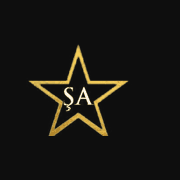
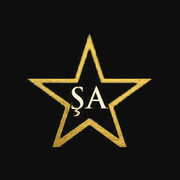
Add files via upload

Changed region(s): [[0.1389, 0.1944, 0.8611, 0.8333]]

diff --git a/index.html b/index.html
@@ -6,8 +6,8 @@
 <title>Şölen Akyıldız Beauty Academy · Online Randevu</title>
 <meta name="theme-color" content="#0d0d0d">
 <link rel="manifest" href="manifest.json">
-<link rel="apple-touch-icon" href="apple-touch-icon.png">
-<link rel="icon" href="icon-192.png">
+<link rel="apple-touch-icon" href="apple-touch-icon.png?v=2">
+<link rel="icon" href="icon-192.png?v=2">
 <meta name="apple-mobile-web-app-capable" content="yes">
 <meta name="mobile-web-app-capable" content="yes">
 <meta name="apple-mobile-web-app-status-bar-style" content="black-translucent">
@@ -163,6 +163,7 @@ footer{text-align:center;color:var(--muted);font-size:13px;padding:6px 16px 34px
 footer a{color:var(--green-2);text-decoration:none;font-weight:500}
 
 @media (prefers-reduced-motion:reduce){*,*::before,*::after{animation:none!important;transition:none!important}}
+.desc{display:block;font-size:12.5px;line-height:1.4;color:#7a7264;margin:3px 0 4px;font-weight:400}
 </style>
 </head>
 <body>
@@ -198,24 +199,24 @@ const CONFIG = {
   hours: {0:["10:00","18:00"],1:null,2:null,3:["09:00","19:00"],4:["09:00","19:00"],5:["09:00","19:00"],6:["09:00","19:00"]},
   staff: ["Şölen","Ceren","Sude","Ayaz","Gizem","Selin","Nazlı","Sudenaz","İlkbal","Yasemin","Eda"],
   services: [
-    {cat:"Cilt", name:"Hydrafacial", min:90},
-    {cat:"Cilt", name:"Mikronee", min:30},
-    {cat:"Cilt", name:"İğnesiz Mezoterapi", min:30},
-    {cat:"Cilt", name:"Pop-Up", min:30},
-    {cat:"Lazer", name:"Lazer Epilasyon", min:30},
-    {cat:"Lazer", name:"Lazer Epilasyon – Tüm Vücut", min:90},
-    {cat:"Lazer", name:"Tepeden Tırnağa Epilasyon", min:120},
-    {cat:"Lazer", name:"Deneme Atışı", min:15},
-    {cat:"Kaş & Kirpik", name:"Kirpik Lifting", min:20},
-    {cat:"Kaş & Kirpik", name:"Kaş Alma", min:20},
-    {cat:"Kaş & Kirpik", name:"Altın Oran Kaş Tasarımı", min:30},
-    {cat:"Kaş & Kirpik", name:"Kaş Vitamini", min:10},
-    {cat:"Kaş & Kirpik", name:"Kaş Laminasyonu", min:10},
-    {cat:"Vücut & Masaj", name:"Masaj", min:40},
-    {cat:"Vücut & Masaj", name:"Bölgesel İncelme", min:30},
-    {cat:"Saç", name:"Saç Vitamini", min:30},
-    {cat:"Danışma", name:"Görüşme", min:30},
-    {cat:"Danışma", name:"Demo", min:20}
+    {cat:"Cilt", name:"Hydrafacial", min:90, desc:"Derin temizlik, peeling ve nem bakımını bir arada yapan cilt bakımı."},
+    {cat:"Cilt", name:"Mikronee", min:30, desc:"Mikro iğne ile cilt yenileme; ton eşitsizliği ve gözenek görünümü için."},
+    {cat:"Cilt", name:"İğnesiz Mezoterapi", min:30, desc:"Vitamin ve serumların iğnesiz yöntemle cilde uygulanması."},
+    {cat:"Cilt", name:"Pop-Up", min:30, desc:"Cilde hızlı canlılık ve sıkılık görünümü kazandıran bakım."},
+    {cat:"Lazer", name:"Lazer Epilasyon", min:30, desc:"Seçtiğiniz bölgeye lazer ile kalıcı tüy azaltma."},
+    {cat:"Lazer", name:"Lazer Epilasyon – Tüm Vücut", min:90, desc:"Tüm vücut bölgelerine tek seansta lazer epilasyon."},
+    {cat:"Lazer", name:"Tepeden Tırnağa Epilasyon", min:120, desc:"Yüz dahil tüm vücuda kapsamlı lazer epilasyon seansı."},
+    {cat:"Lazer", name:"Deneme Atışı", min:15, desc:"Lazerden önce cildinizin uyumunu görmek için kısa deneme."},
+    {cat:"Kaş & Kirpik", name:"Kirpik Lifting", min:20, desc:"Kendi kirpiklerinize kalıcı kıvrım ve dolgun görünüm."},
+    {cat:"Kaş & Kirpik", name:"Kaş Alma", min:20, desc:"Yüz hatlarınıza uygun temiz ve düzgün kaş şekillendirme."},
+    {cat:"Kaş & Kirpik", name:"Altın Oran Kaş Tasarımı", min:30, desc:"Yüzünüze ölçülerek altın orana göre kaş tasarımı."},
+    {cat:"Kaş & Kirpik", name:"Kaş Vitamini", min:10, desc:"Kaşları besleyen ve güçlendiren vitamin bakımı."},
+    {cat:"Kaş & Kirpik", name:"Kaş Laminasyonu", min:10, desc:"Kaş tellerini düzenleyip daha dolgun gösteren işlem."},
+    {cat:"Vücut & Masaj", name:"Masaj", min:40, desc:"Kasları gevşeten, rahatlatıcı vücut masajı."},
+    {cat:"Vücut & Masaj", name:"Bölgesel İncelme", min:30, desc:"Belirli bölgelere yönelik incelme ve sıkılaşma uygulaması."},
+    {cat:"Saç", name:"Saç Vitamini", min:30, desc:"Saç derisini besleyen, saça canlılık veren vitamin bakımı."},
+    {cat:"Danışma", name:"Görüşme", min:30, desc:"İhtiyacınıza uygun işlemi birlikte belirlediğimiz ön görüşme."},
+    {cat:"Danışma", name:"Demo", min:20, desc:"Uygulamayı tanımanız için kısa tanıtım seansı."}
   ]
 };
 /* ============================ */
@@ -288,7 +289,7 @@ function render(scroll){
     v.innerHTML = `<div class="${cls}"><h2>Size nasıl bir bakım yapalım?</h2><p class="hint">Önce kategoriyi, sonra işlemi seçin.</p>
       <div class="cats">${cats.map(c=>`<button class="cat ${c===S.cat?"sel":""}" data-c="${c}">${ICONS[c]||""}${c}</button>`).join("")}</div>
       <div class="list two">${items.map((x,k)=>`<button class="opt ${S.service===x.s?"sel":""}" style="--i:${k}" data-i="${x.i}">
-        <span class="ico">${ICONS[x.s.cat]||""}</span><span class="t"><span class="name">${x.s.name}</span><span class="dur">⏱ ${durTxt(x.s.min)}</span></span><span class="check">${CHECK}</span></button>`).join("")}</div></div>`;
+        <span class="ico">${ICONS[x.s.cat]||""}</span><span class="t"><span class="name">${x.s.name}</span>${x.s.desc?`<span class="desc">${x.s.desc}</span>`:""}<span class="dur">⏱ ${durTxt(x.s.min)}</span></span><span class="check">${CHECK}</span></button>`).join("")}</div></div>`;
     v.querySelectorAll("[data-c]").forEach(b=>b.onclick=()=>{S.cat=b.dataset.c; S.dir=1; render(); });
     v.querySelectorAll("[data-i]").forEach(b=>b.onclick=()=>{S.service=CONFIG.services[b.dataset.i]; S.time=null;
       v.querySelectorAll(".opt").forEach(o=>o.classList.toggle("sel",o===b)); $("#next").disabled=false;

diff --git a/sw.js b/sw.js
@@ -1,5 +1,5 @@
 // Şölen Randevu – çevrimdışı açılış için basit önbellek (randevu verileri önbelleğe alınmaz)
-const CACHE = "solen-v1";
+const CACHE = "solen-v2";
 const FILES = ["./", "./index.html", "./yonetim.html", "./logo.png", "./icon-192.png", "./icon-512.png", "./apple-touch-icon.png", "./manifest.json", "./yonetim.webmanifest"];
 self.addEventListener("install", e => { e.waitUntil(caches.open(CACHE).then(c => c.addAll(FILES)).then(() => self.skipWaiting())); });
 self.addEventListener("activate", e => { e.waitUntil(caches.keys().then(ks => Promise.all(ks.filter(k => k !== CACHE).map(k => caches.delete(k)))).then(() => self.clients.claim())); });

diff --git a/yonetim.html b/yonetim.html
@@ -6,8 +6,8 @@
 <title>Şölen Akyıldız · Salon Yönetimi</title>
 <meta name="theme-color" content="#0d0d0d">
 <link rel="manifest" href="yonetim.webmanifest">
-<link rel="apple-touch-icon" href="apple-touch-icon.png">
-<link rel="icon" href="icon-192.png">
+<link rel="apple-touch-icon" href="apple-touch-icon.png?v=2">
+<link rel="icon" href="icon-192.png?v=2">
 <meta name="apple-mobile-web-app-capable" content="yes">
 <meta name="mobile-web-app-capable" content="yes">
 <meta name="apple-mobile-web-app-status-bar-style" content="black-translucent">
